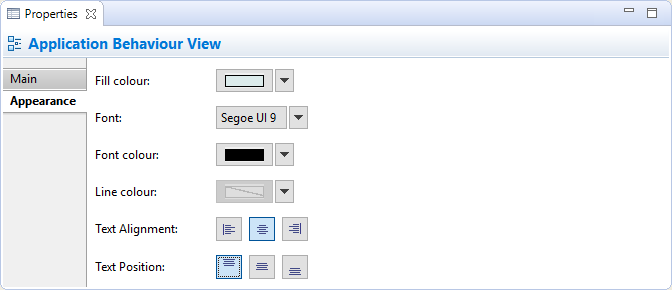
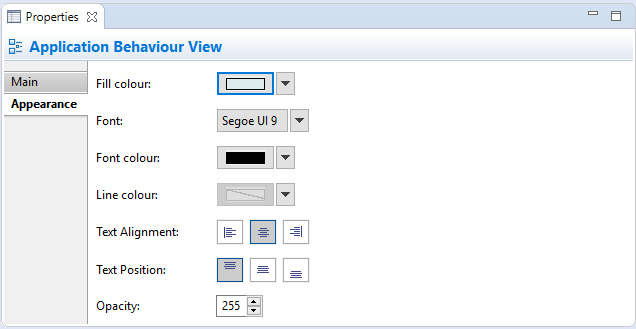
[Opacity] Update Help files

Changed region(s): [[0.0, 0.0, 1.0, 1.0]]

diff --git a/com.archimatetool.help/help/Text/properties_group.html b/com.archimatetool.help/help/Text/properties_group.html
@@ -61,6 +61,10 @@
         <td><strong>Line colour:</strong></td>
         <td>Sets the colour of the line used to draw the Group. The "Default" button sets the line colour to the default setting. If this is disabled it is because line colours are derived from the element's fill colour, as set in Preferences.</td>
       </tr>
+      <tr valign="top">
+        <td><strong>Opacity:</strong></td>
+        <td>Set the opacity of the figure. Range from 0-255.</td>
+      </tr>
     </table>
     
     <p>&nbsp;</p>

diff --git a/com.archimatetool.help/help/Text/properties_canvas_image.html b/com.archimatetool.help/help/Text/properties_canvas_image.html
@@ -52,6 +52,10 @@
         <td><strong>Border colour:</strong></td>
         <td>Sets the colour of the border used for the selected element. The "None" button removes the border from the element.</td>
       </tr>
+      <tr valign="top">
+        <td><strong>Opacity:</strong></td>
+        <td>Set the opacity of the figure. Range from 0-255.</td>
+      </tr>
     </table>
     
     <p>&nbsp;</p>

diff --git a/com.archimatetool.help/help/Text/properties_element_appearance.html b/com.archimatetool.help/help/Text/properties_element_appearance.html
@@ -48,6 +48,10 @@
         <td><strong>Text Position:</strong></td>
         <td>Align text in the selected element to Top, Middle or Bottom.</td>
       </tr>
+      <tr valign="top">
+        <td><strong>Opacity:</strong></td>
+        <td>Set the opacity of the figure. Range from 0-255.</td>
+      </tr>
     </table>
     
     <p>&nbsp;</p>

diff --git a/com.archimatetool.help/help/Text/properties_note.html b/com.archimatetool.help/help/Text/properties_note.html
@@ -64,6 +64,10 @@
         <td><strong>Text Position:</strong></td>
         <td>Align text in the selected element to Top, Middle or Bottom.</td>
       </tr>
+      <tr valign="top">
+        <td><strong>Opacity:</strong></td>
+        <td>Set the opacity of the figure. Range from 0-255.</td>
+      </tr>
     </table>
     
     <p>&nbsp;</p>

diff --git a/com.archimatetool.help/help/Text/properties_viewref.html b/com.archimatetool.help/help/Text/properties_viewref.html
@@ -60,6 +60,10 @@
         <td><strong>Text Position:</strong></td>
         <td>Align text in the selected element to Top, Middle or Bottom.</td>
       </tr>
+      <tr valign="top">
+        <td><strong>Opacity:</strong></td>
+        <td>Set the opacity of the figure. Range from 0-255.</td>
+      </tr>
     </table>
     
     <p>&nbsp;</p>

diff --git a/com.archimatetool.help/help/Text/properties_canvas_block.html b/com.archimatetool.help/help/Text/properties_canvas_block.html
@@ -94,6 +94,10 @@
         <td><strong>Text Position:</strong></td>
         <td>Align text in the selected element to Top, Middle or Bottom.</td>
       </tr>
+      <tr valign="top">
+        <td><strong>Opacity:</strong></td>
+        <td>Set the opacity of the figure. Range from 0-255.</td>
+      </tr>
     </table>
     
     <br/>

diff --git a/com.archimatetool.help/help/Text/properties_canvas_sticky.html b/com.archimatetool.help/help/Text/properties_canvas_sticky.html
@@ -80,6 +80,10 @@
         <td><strong>Text Position:</strong></td>
         <td>Align text in the selected element to Top, Middle or Bottom.</td>
       </tr>
+      <tr valign="top">
+        <td><strong>Opacity:</strong></td>
+        <td>Set the opacity of the figure. Range from 0-255.</td>
+      </tr>
     </table>
     
     <br/>
